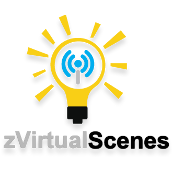
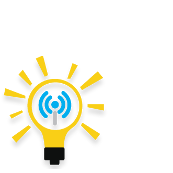
the tile text has been removed, the light to the bottom left for effect.  the tile can be passed a parameter for style, and it will default output the devices on count, but if you send dands as a style parameter it will output devices and scene running counts

Changed region(s): [[0.0, 0.0867, 0.9827, 0.9827], [0.2312, 0.1734, 0.3179, 0.2601]]

diff --git a/Plugins/HttpAPI/HttpAPIPlugin.cs b/Plugins/HttpAPI/HttpAPIPlugin.cs
@@ -411,31 +411,18 @@ namespace HttpAPI
 
                         if (relative_file_path.ToLower() == "\\tile.png")
                         {
-                            var onCount = 0;
+
+                            var color = httpListenerContext.Request.QueryString["color"];
+                            if (string.IsNullOrEmpty(color)) color = "Black";
+                            var style = httpListenerContext.Request.QueryString["style"];
+                            if (string.IsNullOrEmpty(style)) style = "Simple";
+
+                            response.ContentType = "image/png";
+                            byte[] buffer;
                             using (zvsContext context = new zvsContext())
                             {
-                                foreach (Device d in context.Devices)
-                                {
-                                    bool show = true;
-                                    bool.TryParse(DevicePropertyValue.GetDevicePropertyValue(context, d, "HTTPAPI_SHOW"), out show);
-
-                                    if (show)
-                                    {
-                                        if (d.CurrentLevelInt > 0) onCount++;
-                                    }
-                                }
+                                buffer = ShellTile(context, color, style);
                             }
-                            var color = "Black";
-                            foreach (var q in httpListenerContext.Request.QueryString.AllKeys)
-                            {
-                                if (q.ToLower() == "color")
-                                {
-                                    color = httpListenerContext.Request.QueryString[q];
-                                    break;
-                                }
-                            }
-                            response.ContentType = "image/png";
-                            byte[] buffer = ShellTile(onCount, color);
                             response.ContentLength64 = buffer.Length;
                             try
                             {
@@ -446,6 +433,8 @@ namespace HttpAPI
                             {
                                 log.Error(e);
                             }
+
+
                         }
                         else
                         {
@@ -1093,20 +1082,53 @@ namespace HttpAPI
             return utf8;
         }
 
-        private byte[] ShellTile(int Count, string color)
+        private byte[] ShellTile(zvsContext context, string color, string style)
         {
+            int deviceOnCount = 0;
+            int sceneRunningCount = 0;
+            foreach (Device d in context.Devices)
+            {
+                bool show = true;
+                bool.TryParse(DevicePropertyValue.GetDevicePropertyValue(context, d, "HTTPAPI_SHOW"), out show);
+
+                if (show)
+                {
+                    if (d.CurrentLevelInt > 0) deviceOnCount++;
+                }
+            }
+            foreach (Scene scene in context.Scenes)
+            {
+                bool show = false;
+                string prop = ScenePropertyValue.GetPropertyValue(context, scene, "HTTPAPI_SHOW");
+                bool.TryParse(prop, out show);
+
+                if (show && scene.isRunning)
+                {
+                    sceneRunningCount++;
+                }
+            }
+            
             var asm = typeof(HttpAPI.HttpAPIPlugin).Assembly;
             using (var template = asm.GetManifestResourceStream("HttpAPI.TileTemplate.png"))
             {
                 System.Drawing.Image canvas = System.Drawing.Image.FromStream(template);
                 var g = Graphics.FromImage(canvas);
-                Font font = new Font(new FontFamily("Arial"), 20);
-
+                Font font = new Font(FontFamily.GenericSansSerif, 20);
+                
                 Color c = Color.FromName(color);
                 if (c == null) c = Color.Blue;
                 SolidBrush s = new SolidBrush(c);
 
-                g.DrawString(Count.ToString(), font,s, new PointF(125, 10));
+                if (style.ToLower() == "dands")
+                {
+                    g.DrawString(string.Format("Devices: {0}", deviceOnCount), font, s, new PointF(50, 10));
+                    g.DrawString(string.Format("Scenes:  {0}", deviceOnCount), font, s, new PointF(50, 35));
+                }
+                else
+                {
+                    g.DrawString(string.Format("Devices: {0}", deviceOnCount), font, s, new PointF(50, 10));
+                }
+
                 using (var stm = new MemoryStream())
                 {
                     canvas.Save(stm, System.Drawing.Imaging.ImageFormat.Png);
